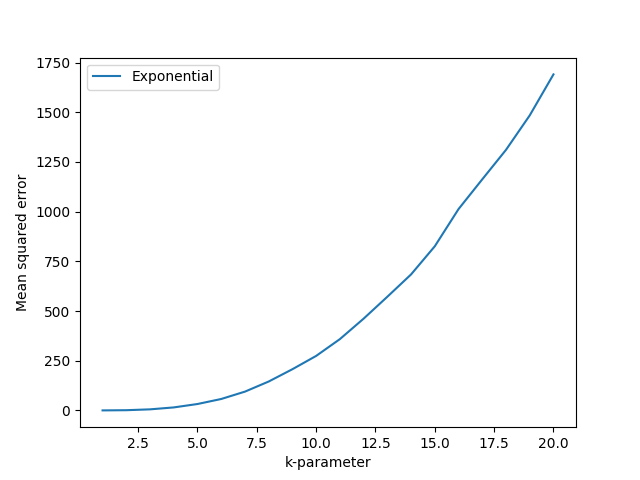
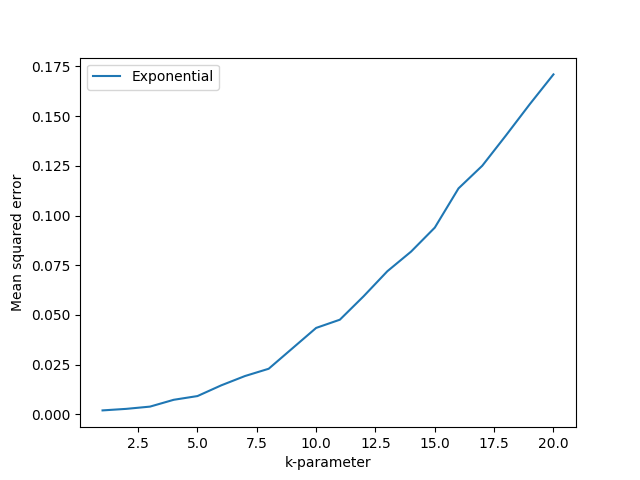
fixed bug in formula

diff --git a/main.py b/main.py
@@ -36,7 +36,7 @@ for k in ks:
         arr2 = [random.expovariate(Theta) for _ in range(N)]
 
         theta_est1 = ((k + 1) * mean_k(arr1, k)) ** (1 / k)
-        theta_est2 = (np.math.factorial(k) * mean_k(arr2, k)) ** (1 / k)
+        theta_est2 = (mean_k(arr2, k) / np.math.factorial(k)) ** (1 / k)
 
         dev1 += (Theta - theta_est1) ** 2
         dev2 += (Theta - theta_est2) ** 2
